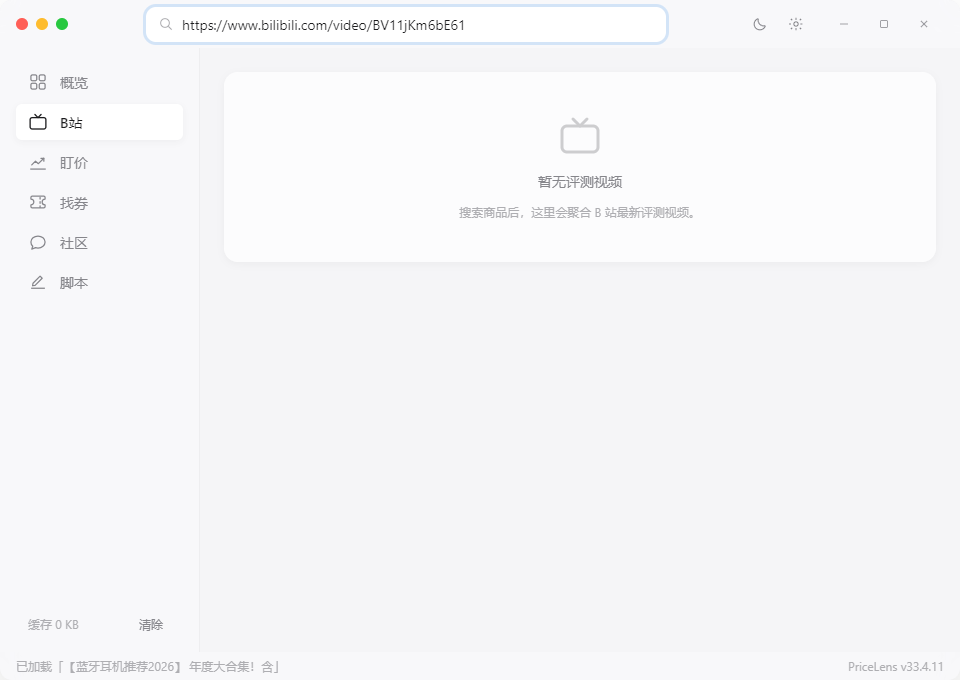
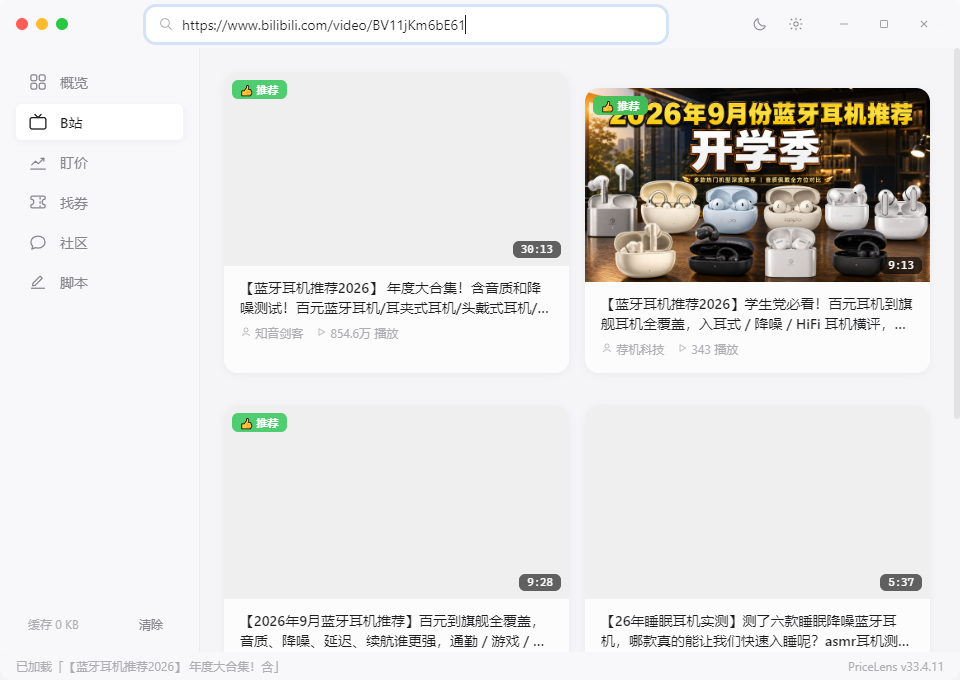
fix(desktop): 修复 B站视图键名、优化盯价空态与找券/社区降级提示

diff --git a/desktop/src/renderer/js/app.js b/desktop/src/renderer/js/app.js
@@ -41,9 +41,10 @@ let modalEl = null;
 const views = {
   overview: { render: renderOverview },
   bilibili: {
-    render: (c) => (state.loading.bilibili && !state.data.videos)
+    /* 主进程按模块名 'bilibili' 写入 state.data，读取端须对齐（曾误读 state.data.videos 致空态） */
+    render: (c) => (state.loading.bilibili && !state.data.bilibili)
       ? c.appendChild(renderSkeleton('bilibili'))
-      : renderVideoView(c, { videos: state.data.videos, error: state.errors.bilibili }),
+      : renderVideoView(c, { videos: state.data.bilibili?.videos ?? null, error: state.errors.bilibili }),
   },
   price: {
     render: (c) => (state.loading.history && !state.data.history)
@@ -52,8 +53,12 @@ const views = {
           history: state.data.history,
           product: state.product || {},
           watch: state.watch,
+          error: state.errors.history,
           onSetWatch: setWatch,
           onClearWatch: clearWatch,
+          onRetrySearch: focusSearch,
+          onRetry: () => retryModule('history'),
+          onOpenProduct: state.url ? () => openExternalSafe(state.url) : null,
         }),
   },
   coupons: {
@@ -65,6 +70,7 @@ const views = {
           currentPrice: state.data.coupons?.currentPrice ?? null,
           product: state.product || {},
           error: state.errors.coupons,
+          onRetry: () => retryModule('coupons'),
         }),
   },
   community: {
@@ -76,6 +82,7 @@ const views = {
           ratio: state.data.community?.ratio ?? null,
           product: state.product || {},
           error: state.errors.community,
+          onRetry: () => retryModule('community'),
         }),
   },
   scripts: {
@@ -145,7 +152,7 @@ function historySummary() {
 }
 function videosSummary() {
   if (state.loading.bilibili) return '加载中…';
-  const v = state.data.videos;
+  const v = state.data.bilibili?.videos;
   if (!v) return state.errors.bilibili ? '暂不可用' : '暂无数据';
   return `${v.length} 条评测`;
 }
@@ -201,33 +208,65 @@ async function doSearch(q, opts = {}) {
     router.rerender();
 
     /* 并行拉取四个模块（各自独立降级，互不影响） */
-    loadModule('history', async () => {
-      if (!state.url) throw new Error('该商品没有可追溯的商城链接');
-      const r = await window.priceLens.getHistory(state.url, opts);
-      if (!r.ok) throw new Error(r.error);
-      return r;
-    });
-    loadModule('bilibili', async () => {
-      const r = await window.priceLens.getBiliVideos(`${state.keyword} 评测`, opts);
-      if (!r.ok) throw new Error(r.error);
-      return r;
-    });
-    loadModule('coupons', async () => {
-      if (!state.url) throw new Error('该商品没有可查询优惠券的链接');
-      const r = await window.priceLens.getCoupons(state.url, opts);
-      if (!r.ok) throw new Error(r.error);
-      return r;
-    });
-    loadModule('community', async () => {
-      const r = await window.priceLens.getComments(state.keyword, opts);
-      if (!r.ok) throw new Error(r.error);
-      return r;
-    });
+    for (const name of ['history', 'bilibili', 'coupons', 'community']) {
+      loadModule(name, makeFetcher(name, opts));
+    }
   } catch (err) {
     state.errors.search = err.message || '搜索失败';
     setStatus('搜索失败');
     router.rerender();
   }
+}
+
+/**
+ * 构造单模块取数函数（搜索与重试共用）。
+ * @param {'history'|'bilibili'|'coupons'|'community'} name
+ * @param {{refresh?: boolean}} [opts] refresh=true 时跳过缓存（重试）
+ * @returns {() => Promise<any>}
+ */
+function makeFetcher(name, opts = {}) {
+  switch (name) {
+    case 'history':
+      return async () => {
+        if (!state.url) throw new Error('该商品没有可追溯的商城链接');
+        const r = await window.priceLens.getHistory(state.url, opts);
+        if (!r.ok) throw new Error(r.error);
+        return r;
+      };
+    case 'bilibili':
+      return async () => {
+        const r = await window.priceLens.getBiliVideos(`${state.keyword} 评测`, opts);
+        if (!r.ok) throw new Error(r.error);
+        return r;
+      };
+    case 'coupons':
+      return async () => {
+        if (!state.url) throw new Error('该商品没有可查询优惠券的链接');
+        const r = await window.priceLens.getCoupons(state.url, opts);
+        if (!r.ok) throw new Error(r.error);
+        return r;
+      };
+    case 'community':
+      return async () => {
+        const r = await window.priceLens.getComments(state.keyword, opts);
+        if (!r.ok) throw new Error(r.error);
+        return r;
+      };
+    default:
+      return async () => { throw new Error(`未知模块 ${name}`); };
+  }
+}
+
+/** 单模块重试：跳过缓存强刷（降级视图的「重试」按钮入口） */
+function retryModule(name) {
+  if (state.loading[name]) return;
+  loadModule(name, makeFetcher(name, { refresh: true }));
+  router.rerender();
+}
+
+/** 聚焦搜索框（空态引导入口） */
+function focusSearch() {
+  searchApi?.focus();
 }
 
 /**

diff --git a/desktop/src/renderer/js/components/price-chart.js b/desktop/src/renderer/js/components/price-chart.js
@@ -16,14 +16,16 @@ import { showToast } from './toast.js';
  * @param {HTMLElement} container
  * @param {{history: {current:number, lowest:number, highest:number,
  *   points:Array<{date:string, price:number}>} | null,
- *   product: object, watch: object|null,
- *   onSetWatch: (target:number)=>void, onClearWatch: ()=>void}} ctx
+ *   product: object, watch: object|null, error?: string,
+ *   onSetWatch: (target:number)=>void, onClearWatch: ()=>void,
+ *   onRetrySearch?: ()=>void, onRetry?: ()=>void, onOpenProduct?: (()=>void)|null}} ctx
  */
 export function renderPriceView(container, ctx) {
-  const { history, product, watch, onSetWatch, onClearWatch } = ctx;
+  const { history, product, watch, error, onSetWatch, onClearWatch,
+    onRetrySearch, onRetry, onOpenProduct } = ctx;
 
   if (!history || !history.points || history.points.length < 2) {
-    container.appendChild(renderEmpty());
+    container.appendChild(renderEmpty({ product, error, onRetrySearch, onRetry, onOpenProduct }));
     return;
   }
 
@@ -73,15 +75,53 @@ function statItem(label, value, color) {
     el('div', { class: 's-value', text: value, style: color ? { color } : {} }));
 }
 
-/** 空状态 */
-function renderEmpty() {
+/**
+ * 空状态：区分「未搜索 / 数据源报错 / 源未收录」，均给出原因与可操作引导。
+ * @param {{product: object, error?: string, onRetrySearch?: ()=>void,
+ *   onRetry?: ()=>void, onOpenProduct?: (()=>void)|null}} ctx
+ */
+function renderEmpty({ product, error, onRetrySearch, onRetry, onOpenProduct }) {
+  const actions = el('div', { class: 'e-actions' });
+
+  /* 尚未搜索任何商品 */
+  if (!product || !product.title) {
+    if (onRetrySearch) {
+      actions.appendChild(el('button', { class: 'btn btn--primary', on: { click: onRetrySearch } }, '去搜索'));
+    }
+    return el('div', { class: 'card empty-state' },
+      icon('chart', 48),
+      el('div', { class: 'e-title', text: '先搜索商品，再看价格趋势' }),
+      el('div', {
+        class: 'e-desc',
+        text: '输入商品名或粘贴京东/淘宝商品链接后，这里会展示历史价格曲线，并可设置盯价提醒。',
+      }),
+      actions);
+  }
+
+  /* 数据源明确报错（限流/网络/接口拒绝） */
+  if (error) {
+    if (onRetry) actions.appendChild(el('button', { class: 'btn btn--primary', on: { click: onRetry } }, '重试'));
+    if (onRetrySearch) actions.appendChild(el('button', { class: 'btn', on: { click: onRetrySearch } }, '重新搜索'));
+    return el('div', { class: 'card empty-state' },
+      icon('chart', 48),
+      el('div', { class: 'e-title', text: '历史价格暂不可用' }),
+      el('div', { class: 'e-desc', text: error }),
+      actions);
+  }
+
+  /* 源正常但未收录该商品（新上架/长尾商品通常无历史记录） */
+  if (onOpenProduct) {
+    actions.appendChild(el('button', { class: 'btn btn--primary', on: { click: onOpenProduct } }, '打开商品页'));
+  }
+  if (onRetrySearch) actions.appendChild(el('button', { class: 'btn', on: { click: onRetrySearch } }, '换个商品搜索'));
   return el('div', { class: 'card empty-state' },
     icon('chart', 48),
     el('div', { class: 'e-title', text: '暂无历史价格数据' }),
     el('div', {
       class: 'e-desc',
-      text: '慢慢买可能未收录该商品，或数据源暂时限流。可尝试粘贴京东/淘宝商品链接重新搜索。',
-    }));
+      text: '慢慢买尚未收录该商品的历史价格记录（新上架商品通常无数据）。可以先去商城打开商品页浏览、积累数据后再来查看，或换一个商品搜索。',
+    }),
+    actions);
 }
 
 /** 盯价设置行 */

diff --git a/desktop/src/main/utils/http-client.js b/desktop/src/main/utils/http-client.js
@@ -145,12 +145,20 @@ async function rawRequest(url, opts = {}) {
 
         if (res.statusCode === 403 || res.statusCode === 412 || res.statusCode === 429) {
           limiter.pause(hostname);
-          throw new RateLimitedError(hostname, Date.now() + 5 * 60 * 1000);
+          throw new RateLimitedError(hostname, Date.now() + 5 * 60 * 1000, `HTTP ${res.statusCode}`);
+        }
+        // WAF 人机验证挑战（实测：smzdm 返回 202 + x-waf-captcha-* Cookie，
+        // 非真实内容；若不当拦截会被误判为「页面结构变更/解析失败」）
+        const setCookieRaw = res.headers['set-cookie'];
+        const cookieText = Array.isArray(setCookieRaw) ? setCookieRaw.join('; ') : String(setCookieRaw || '');
+        if (res.statusCode === 202 && /waf-captcha|captcha/i.test(cookieText)) {
+          limiter.pause(hostname);
+          throw new RateLimitedError(hostname, Date.now() + 5 * 60 * 1000, 'WAF 人机验证拦截');
         }
         // 验证码页面嗅探（200 但内容是人机校验）
         if (/<captcha|verify\.gd\.sogou|滑动验证|请输入验证码|geetest/i.test(text)) {
           limiter.pause(hostname);
-          throw new RateLimitedError(hostname, Date.now() + 5 * 60 * 1000);
+          throw new RateLimitedError(hostname, Date.now() + 5 * 60 * 1000, '触发人机验证');
         }
         return { status: res.statusCode, body: text, url };
       } catch (err) {

diff --git a/desktop/src/renderer/js/components/comment-feed.js b/desktop/src/renderer/js/components/comment-feed.js
@@ -20,16 +20,19 @@ const HIGHLIGHT_MAP = {
  * 渲染社区视图。
  * @param {HTMLElement} container
  * @param {{deals: Array|null, comments: Array|null, ratio: {up:number, down:number}|null,
- *   product: object, error?: string, onOpenDeal:(url:string)=>void}} ctx
+ *   product: object, error?: string, onRetry?: ()=>void, onOpenDeal:(url:string)=>void}} ctx
  */
 export function renderCommunityView(container, ctx) {
-  const { deals, comments, ratio, product, error } = ctx;
+  const { deals, comments, ratio, product, error, onRetry } = ctx;
 
   if (error && (!deals || deals.length === 0)) {
+    /* 降级态：展示具体源与错误类型（反爬拦截/超时/解析失败），并提供重试入口 */
     container.appendChild(el('div', { class: 'card empty-state' },
       icon('chat', 48),
-      el('div', { class: 'e-title', text: '什么值得买数据源暂不可用' }),
-      el('div', { class: 'e-desc', text: error })));
+      el('div', { class: 'e-title', text: '社区数据源不可用' }),
+      el('div', { class: 'e-desc', text: error }),
+      onRetry ? el('div', { class: 'e-actions' },
+        el('button', { class: 'btn btn--primary', on: { click: onRetry } }, '重试')) : null));
     return;
   }
   if (!deals || deals.length === 0) {

diff --git a/desktop/src/renderer/js/components/coupon-list.js b/desktop/src/renderer/js/components/coupon-list.js
@@ -14,16 +14,19 @@ import { showToast } from './toast.js';
  * @param {{coupons: Array<{title:string, amount:number, threshold:number,
  *   expireAt:string, code:string|null, link:string, stackable:boolean}> | null,
  *   finalPrice: number|null, currentPrice: number|null,
- *   product: object, error?: string}} ctx
+ *   product: object, error?: string, onRetry?: ()=>void}} ctx
  */
 export function renderCouponView(container, ctx) {
-  const { coupons, finalPrice, currentPrice, product, error } = ctx;
+  const { coupons, finalPrice, currentPrice, product, error, onRetry } = ctx;
 
   if (error && (!coupons || coupons.length === 0)) {
+    /* 降级态：展示具体源与错误类型，并提供重试入口 */
     container.appendChild(el('div', { class: 'card empty-state' },
       icon('ticket', 48),
-      el('div', { class: 'e-title', text: '优惠券数据源暂不可用' }),
-      el('div', { class: 'e-desc', text: error })));
+      el('div', { class: 'e-title', text: '找券数据源不可用' }),
+      el('div', { class: 'e-desc', text: error }),
+      onRetry ? el('div', { class: 'e-actions' },
+        el('button', { class: 'btn btn--primary', on: { click: onRetry } }, '重试')) : null));
     return;
   }
 

diff --git a/desktop/src/main/crawlers/gwdang.js b/desktop/src/main/crawlers/gwdang.js
@@ -48,11 +48,18 @@ async function fetchTrendHtml(url) {
     }
   } catch (err) {
     if (err.code === 'ERATE_LIMIT') throw err; // 限流直接上抛，不再消耗 playwright
+    if (/服务端错误 5\d{2}/.test(err.message)) {
+      // 实测：www.gwdang.com 持续返回 503 错误页（GBK 短页），服务端拒绝访问，
+      // 非 SPA 壳问题；不再降级 playwright（渲染后仍是 503），直接给出准确原因。
+      const e = new Error(`购物党（gwdang）接口拒绝访问（${err.message.replace(/^服务端错误\s*/, 'HTTP ')}），疑似服务端反爬限流，请稍后重试`);
+      e.code = 'EBLOCKED';
+      throw e;
+    }
   }
 
   const browser = await tryLaunchPlaywright();
   if (!browser) {
-    const e = new Error('购物党页面需要浏览器渲染，请先安装可选依赖：npm i -D playwright && npx playwright install chromium');
+    const e = new Error('购物党（gwdang）趋势页为动态渲染，当前环境未安装可选浏览器组件（playwright），无法获取券数据');
     e.code = 'EDEGRADE';
     throw e;
   }

diff --git a/desktop/src/main/utils/rate-limiter.js b/desktop/src/main/utils/rate-limiter.js
@@ -9,15 +9,16 @@
 const MIN_INTERVAL_MS = 3000;   // 同域名 1 req / 3s
 const PAUSE_MS = 5 * 60 * 1000; // 反爬降级 5 分钟
 
-/** 数据源被限流时抛出的错误（ipc 层翻译为友好提示） */
+/** 数据源被限流/反爬拦截时抛出的错误（ipc 层翻译为友好提示） */
 class RateLimitedError extends Error {
   /**
    * @param {string} domain
    * @param {number} resumeAt 恢复时间戳
+   * @param {string} [reason] 拦截原因（如 HTTP 403 / WAF 人机验证），拼入提示文案
    */
-  constructor(domain, resumeAt) {
+  constructor(domain, resumeAt, reason = '暂时限流') {
     const waitMin = Math.max(1, Math.ceil((resumeAt - Date.now()) / 60000));
-    super(`数据源 ${domain} 暂时限流，约 ${waitMin} 分钟后自动恢复`);
+    super(`数据源 ${domain} 反爬拦截（${reason}），约 ${waitMin} 分钟后自动恢复`);
     this.name = 'RateLimitedError';
     this.code = 'ERATE_LIMIT';
     this.resumeAt = resumeAt;

diff --git a/desktop/src/main/crawlers/smzdm.js b/desktop/src/main/crawlers/smzdm.js
@@ -46,6 +46,10 @@ async function searchDeals(q) {
     `https://search.smzdm.com/?c=home&s=${encodeURIComponent(q)}&v=b&order=time`,
     { headers: { Referer: 'https://www.smzdm.com/' } },
   );
+  /* 异常短页：非真实搜索结果（如反爬挑战页），避免误报「页面结构变更」 */
+  if (html.length < 1000) {
+    throw new Error('什么值得买（smzdm）返回了异常页面（疑似反爬拦截），无法解析搜索结果');
+  }
   const $ = cheerio.load(html);
   const deals = [];
 

diff --git a/desktop/src/renderer/css/components.css b/desktop/src/renderer/css/components.css
@@ -518,6 +518,8 @@
 .empty-state .e-title { font-size: var(--fs-body); color: var(--text-secondary); }
 .empty-state .e-desc  { font-size: var(--fs-caption); max-width: 360px; line-height: 1.6; }
 .empty-state .btn { margin-top: var(--sp-2); }
+.empty-state .e-actions { display: flex; gap: var(--sp-3); margin-top: var(--sp-1); }
+.empty-state .e-actions .btn { margin-top: 0; }
 
 /* ══════════ 骨架变体 ══════════ */
 .sk-header { display: flex; gap: var(--sp-5); }
